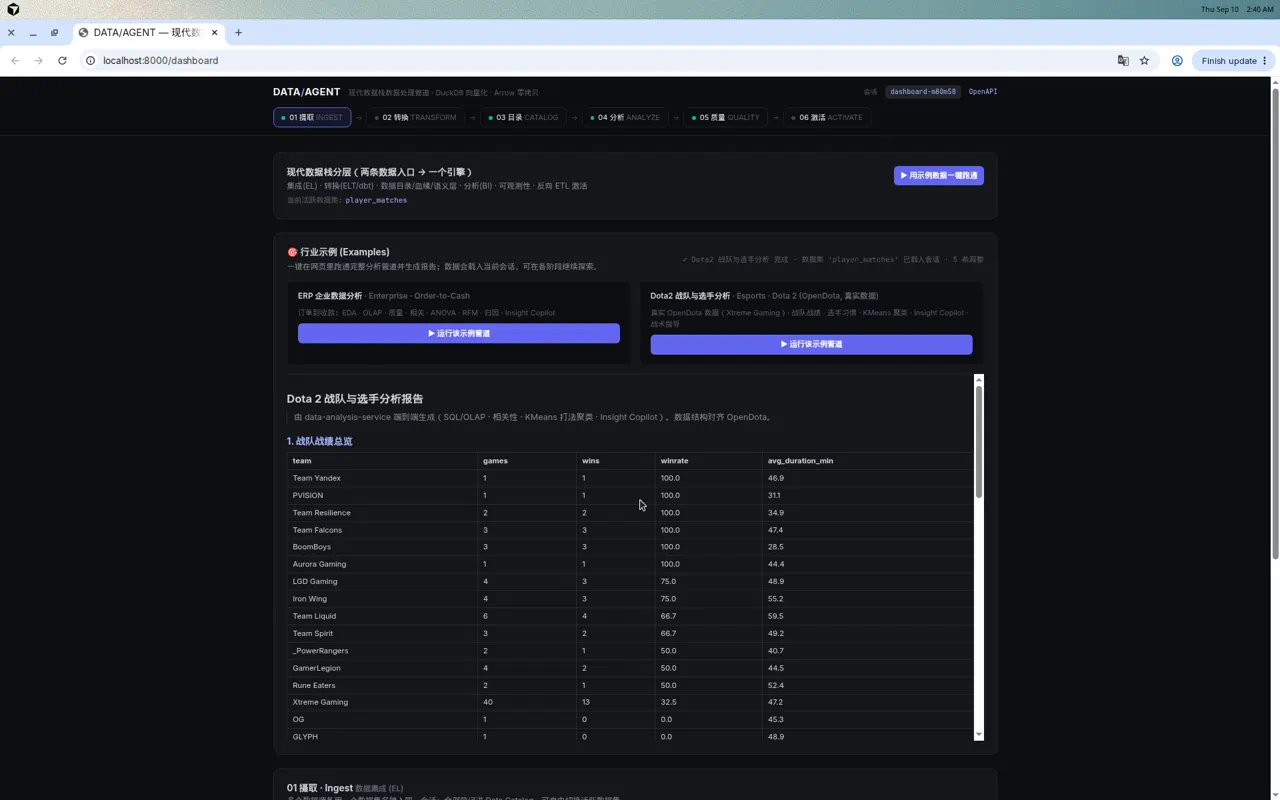
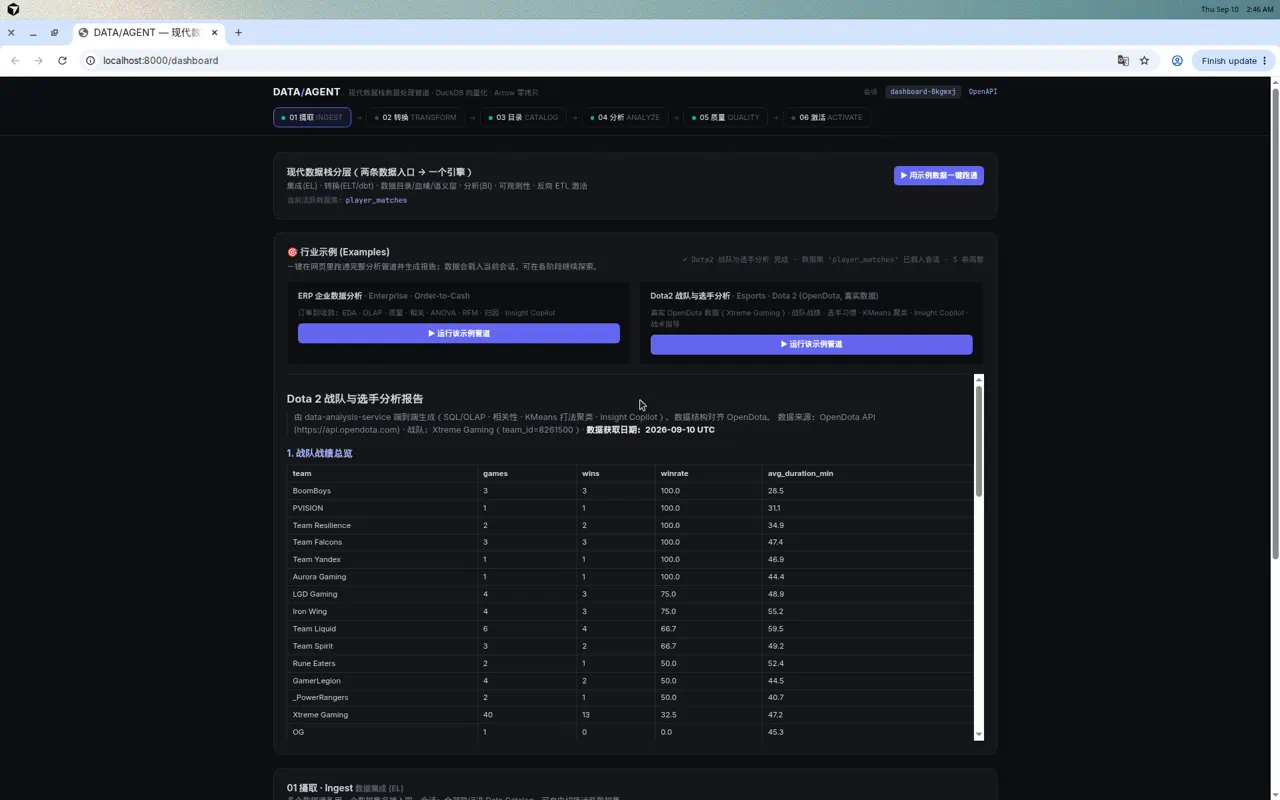
feat(dota2): record & display data acquisition date
- fetch_opendota.py writes real_data/_meta.json with fetched_at (acquisition date),
  source, team, and counts.
- Report header now cites the data source + '数据获取日期' (from _meta.json); the
  web result includes data_note. CLI and web both pass it through.
- README homepage showcase + Dota2 README state the fetch date (2026-09-10 UTC).
- Refresh the homepage screenshot to show the acquisition-date line.
- Test asserts the report cites '数据获取日期'.

Changed region(s): [[0.2188, 0.5312, 0.5625, 0.9375], [0.5938, 0.5625, 0.6562, 0.9375], [0.5938, 0.5, 0.6875, 0.5312]]

diff --git a/app/examples/dota2.py b/app/examples/dota2.py
@@ -109,7 +109,7 @@ def register_frames(con, frames):
         con.unregister(f"_src_{name}")
 
 
-def analyze(session_id: str, con) -> Dict[str, Any]:
+def analyze(session_id: str, con, data_note: str = None) -> Dict[str, Any]:
     def rows(sql):
         return run_duckdb_sql(session_id, sql, limit=200)["data"]
 
@@ -136,11 +136,30 @@ def analyze(session_id: str, con) -> Dict[str, Any]:
 
     med = sorted(t["avg_duration_min"] for t in team_stats)[len(team_stats) // 2]
     guidance = _tactics(team_stats, player_stats, hero_habits, med)
-    report = _report(team_stats, player_stats, hero_habits, corr, clustering, insights, guidance, med)
+    report = _report(team_stats, player_stats, hero_habits, corr, clustering, insights, guidance, med, data_note)
     return {"example_id": EXAMPLE_ID, "name": NAME, "domain": DOMAIN,
             "session_id": session_id, "dataset_name": "player_matches",
             "teams": len(team_stats), "players": len(player_stats),
-            "insights": insights, "report_markdown": report}
+            "data_note": data_note, "insights": insights, "report_markdown": report}
+
+
+def _read_meta(data_dir: str):
+    import json
+    path = os.path.join(data_dir, "_meta.json")
+    if not os.path.exists(path):
+        return None
+    try:
+        with open(path, encoding="utf-8") as f:
+            return json.load(f)
+    except (ValueError, OSError):
+        return None
+
+
+def data_note_from_meta(meta) -> str:
+    if meta:
+        return (f"数据来源：{meta.get('source', 'OpenDota API')} · 战队：{meta.get('team', 'Xtreme Gaming')}"
+                f"（team_id={meta.get('team_id')}）· **数据获取日期：{meta.get('fetched_at', '未知')}**")
+    return "数据来源：合成样本（离线后备，非真实数据）"
 
 
 def _load_real_tables(con) -> bool:
@@ -161,9 +180,12 @@ def _load_real_tables(con) -> bool:
 def run_in_memory(session_id: str = None, seed: int = 7) -> Dict[str, Any]:
     sess = SessionManager().get_or_create_session(session_id)
     con = sess.get_duckdb_conn()
-    if not _load_real_tables(con):  # offline fallback only
+    if _load_real_tables(con):
+        note = data_note_from_meta(_read_meta(REAL_DATA_DIR))
+    else:  # offline fallback only
         register_frames(con, generate_frames(seed))
-    return analyze(sess.session_id, con)
+        note = data_note_from_meta(None)
+    return analyze(sess.session_id, con, data_note=note)
 
 
 def _top_heroes(hero_habits, team, n=2):
@@ -202,9 +224,12 @@ def _table(rows, cols):
     return out
 
 
-def _report(team_stats, player_stats, hero_habits, corr, clustering, insights, guidance, med) -> str:
+def _report(team_stats, player_stats, hero_habits, corr, clustering, insights, guidance, med, data_note=None) -> str:
     L = ["# Dota 2 战队与选手分析报告\n",
-         "> 由 data-analysis-service 端到端生成（SQL/OLAP · 相关性 · KMeans 打法聚类 · Insight Copilot）。数据结构对齐 OpenDota。\n"]
+         "> 由 data-analysis-service 端到端生成（SQL/OLAP · 相关性 · KMeans 打法聚类 · Insight Copilot）。数据结构对齐 OpenDota。"]
+    if data_note:
+        L.append(f"> {data_note}")
+    L.append("")
     L.append("## 1. 战队战绩总览")
     L += _table(team_stats, ["team", "games", "wins", "winrate", "avg_duration_min"])
     L.append(f"\n- 联赛对局时长中位数：**{med} min**（节奏型/发育型分界）\n")

diff --git a/examples/dota2-analysis/fetch_opendota.py b/examples/dota2-analysis/fetch_opendota.py
@@ -96,8 +96,21 @@ def fetch(team_id: int, limit: int, out_dir: str, sleep: float = 1.2):
     _write(out_dir, "matches.csv", matches)
     _write(out_dir, "player_matches.csv", pms)
     _write(out_dir, "teams.csv", [{"team_id": k, "name": v} for k, v in seen_teams.items()])
+
+    # Record the acquisition metadata (crucially, the fetch date) so the report and
+    # README can cite exactly when this real snapshot was pulled from OpenDota.
+    import json
+    meta = {
+        "fetched_at": datetime.now(timezone.utc).strftime("%Y-%m-%d %H:%M UTC"),
+        "source": "OpenDota API (https://api.opendota.com)",
+        "team": team_name, "team_id": team_id,
+        "matches": len(matches), "player_rows": len(pms), "teams": len(seen_teams),
+    }
+    with open(os.path.join(out_dir, "_meta.json"), "w", encoding="utf-8") as f:
+        json.dump(meta, f, ensure_ascii=False, indent=2)
     print(f"Wrote {len(matches)} matches, {len(pms)} player rows, {len(seen_teams)} teams -> {out_dir}")
-    return {"matches": len(matches), "player_rows": len(pms), "teams": len(seen_teams)}
+    print(f"Fetched at: {meta['fetched_at']}")
+    return meta
 
 
 def _write(out_dir, name, rows):

diff --git a/examples/dota2-analysis/analyze_dota2.py b/examples/dota2-analysis/analyze_dota2.py
@@ -18,7 +18,7 @@ if _REPO_ROOT not in sys.path:
     sys.path.insert(0, _REPO_ROOT)
 
 from app.cluster.session_manager import SessionManager
-from app.examples.dota2 import analyze
+from app.examples.dota2 import analyze, data_note_from_meta, _read_meta
 
 
 def run_dota2_analysis(data_dir: str, out_path: str, session_id: str = "dota2_demo") -> dict:
@@ -38,7 +38,8 @@ def run_dota2_analysis(data_dir: str, out_path: str, session_id: str = "dota2_de
             continue  # real OpenDota export omits players.csv; analyze needs only matches + player_matches
         path = raw.replace("'", "''")
         con.execute(f"CREATE OR REPLACE TABLE {tbl} AS SELECT * FROM read_csv_auto('{path}', header=true)")
-    res = analyze(sess.session_id, con)
+    note = data_note_from_meta(_read_meta(data_dir))
+    res = analyze(sess.session_id, con, data_note=note)
 
     os.makedirs(os.path.dirname(os.path.abspath(out_path)), exist_ok=True)
     with open(out_path, "w", encoding="utf-8") as f:

diff --git a/tests/test_examples_web.py b/tests/test_examples_web.py
@@ -30,6 +30,8 @@ def test_run_dota2_example_in_memory():
     r = examples.run_example("dota2", session_id="dota2_web_test")
     assert r["teams"] >= 5 and r["players"] >= 20
     assert "Xtreme Gaming" in r["report_markdown"]  # real XG data
+    assert "数据获取日期" in r["report_markdown"]  # acquisition date is cited
+    assert r.get("data_note")
     assert "战术指导" in r["report_markdown"]
     assert "ban" in r["report_markdown"].lower()
 

diff --git a/examples/dota2-analysis/report.md b/examples/dota2-analysis/report.md
@@ -1,27 +1,28 @@
 # Dota 2 战队与选手分析报告
 
 > 由 data-analysis-service 端到端生成（SQL/OLAP · 相关性 · KMeans 打法聚类 · Insight Copilot）。数据结构对齐 OpenDota。
+> 数据来源：OpenDota API (https://api.opendota.com) · 战队：Xtreme Gaming（team_id=8261500）· **数据获取日期：2026-09-10 UTC**
 
 ## 1. 战队战绩总览
 | team | games | wins | winrate | avg_duration_min |
 |---|---|---|---|---|
-| BoomBoys | 3 | 3 | 100.0 | 28.5 |
-| Team Yandex | 1 | 1 | 100.0 | 46.9 |
-| PVISION | 1 | 1 | 100.0 | 31.1 |
-| Aurora Gaming | 1 | 1 | 100.0 | 44.4 |
 | Team Resilience | 2 | 2 | 100.0 | 34.9 |
 | Team Falcons | 3 | 3 | 100.0 | 47.4 |
-| Iron Wing | 4 | 3 | 75.0 | 55.2 |
+| Team Yandex | 1 | 1 | 100.0 | 46.9 |
+| BoomBoys | 3 | 3 | 100.0 | 28.5 |
+| PVISION | 1 | 1 | 100.0 | 31.1 |
+| Aurora Gaming | 1 | 1 | 100.0 | 44.4 |
 | LGD Gaming | 4 | 3 | 75.0 | 48.9 |
+| Iron Wing | 4 | 3 | 75.0 | 55.2 |
 | Team Liquid | 6 | 4 | 66.7 | 59.5 |
 | Team Spirit | 3 | 2 | 66.7 | 49.2 |
-| Rune Eaters | 2 | 1 | 50.0 | 52.4 |
-| GamerLegion | 4 | 2 | 50.0 | 44.5 |
 | _PowerRangers | 2 | 1 | 50.0 | 40.7 |
+| GamerLegion | 4 | 2 | 50.0 | 44.5 |
+| Rune Eaters | 2 | 1 | 50.0 | 52.4 |
 | Xtreme Gaming | 40 | 13 | 32.5 | 47.2 |
-| GLYPH | 1 | 0 | 0.0 | 48.9 |
 | HULIGANI | 2 | 0 | 0.0 | 43.6 |
 | OG | 1 | 0 | 0.0 | 45.3 |
+| GLYPH | 1 | 0 | 0.0 | 48.9 |
 
 - 联赛对局时长中位数：**46.9 min**（节奏型/发育型分界）
 
@@ -42,12 +43,12 @@
 | m1CKe | Team Liquid | Carry | 6 | 5.1 | 774.0 | 960.0 | 692.0 | 4 | 66.7 |
 
 ## 3. 战队招牌英雄（习惯）
-- **BoomBoys**：Winter Wyvern, Kez, Earth Spirit
-- **Team Yandex**：Lich, Windranger, Slardar
-- **PVISION**：Slardar, Io, Juggernaut
-- **Aurora Gaming**：Hoodwink, Clockwerk, Ember Spirit
-- **Team Resilience**：Mirana, Necrophos, Doom
-- **Team Falcons**：Ember Spirit, Clockwerk, Windranger
+- **Team Resilience**：Mirana, Invoker, Doom
+- **Team Falcons**：Clockwerk, Ember Spirit, Windranger
+- **Team Yandex**：Invoker, Hoodwink, Lich
+- **BoomBoys**：Winter Wyvern, Largo, Ringmaster
+- **PVISION**：Treant Protector, Slardar, Viper
+- **Aurora Gaming**：Axe, Nature's Prophet, Ember Spirit
 
 ## 4. 关键相关性（表现 ↔ 胜负）
 - **gpm ↔ xpm**：r=0.8858（Very Strong）
@@ -67,11 +68,11 @@
 - **建议**：优先关注「gpm 与 xpm Very Strong 相关 (r=0.8858)」（严重度 0.886），建议用 driver_attribution_analysis 对相关指标做因子级归因。
 
 ## 7. 战术指导 (Tactical Guidance)
-- **BoomBoys**（胜率 100.0% · 均时长 28.5min）：早期节奏型（平均时长偏短）：建议前期抱团压制、封野入侵、抢符抢盾，避免被拖入后期。 优先 ban 招牌英雄：Winter Wyvern, Kez。
-- **Team Yandex**（胜率 100.0% · 均时长 46.9min）：后期发育型（平均时长偏长）：建议速推分带、压制打钱节奏、逼其提前团战。 优先 ban 招牌英雄：Lich, Windranger。
-- **PVISION**（胜率 100.0% · 均时长 31.1min）：早期节奏型（平均时长偏短）：建议前期抱团压制、封野入侵、抢符抢盾，避免被拖入后期。 优先 ban 招牌英雄：Slardar, Io。
-- **Aurora Gaming**（胜率 100.0% · 均时长 44.4min）：早期节奏型（平均时长偏短）：建议前期抱团压制、封野入侵、抢符抢盾，避免被拖入后期。 优先 ban 招牌英雄：Hoodwink, Clockwerk。
+- **Team Resilience**（胜率 100.0% · 均时长 34.9min）：早期节奏型（平均时长偏短）：建议前期抱团压制、封野入侵、抢符抢盾，避免被拖入后期。 优先 ban 招牌英雄：Mirana, Invoker。
+- **Team Falcons**（胜率 100.0% · 均时长 47.4min）：后期发育型（平均时长偏长）：建议速推分带、压制打钱节奏、逼其提前团战。 优先 ban 招牌英雄：Clockwerk, Ember Spirit。
+- **Team Yandex**（胜率 100.0% · 均时长 46.9min）：后期发育型（平均时长偏长）：建议速推分带、压制打钱节奏、逼其提前团战。 优先 ban 招牌英雄：Invoker, Hoodwink。
+- **BoomBoys**（胜率 100.0% · 均时长 28.5min）：早期节奏型（平均时长偏短）：建议前期抱团压制、封野入侵、抢符抢盾，避免被拖入后期。 优先 ban 招牌英雄：Winter Wyvern, Largo。
 - **核心威胁（经济）**：优先 gank/切入 → Nightfall(Aurora Gaming/Carry, GPM 982.0)；YSR-04E(Team Resilience/Carry, GPM 833.0)；Satanic(PVISION/Carry, GPM 823.0)。
 - **核心威胁（KDA）**：Nightfall(KDA 32.0)；Mikoto(KDA 28.0)；niu(KDA 23.5)。
-- **可预测的窄英雄池选手**（针对性 ban）：fy（池 1）；zzq（池 1）；planet（池 1）；ssnovv1（池 2）；Cr1t-（池 2）。
+- **可预测的窄英雄池选手**（针对性 ban）：Echozz（池 2）；planet（池 1）；Mirage`雨（池 2）；RESPECT（池 1）；Bignum（池 2）。
 

diff --git a/README.md b/README.md
@@ -10,6 +10,8 @@
 
 内置**行业示例**可在治理大盘里一键跑通完整分析管道并生成报告（`examples/` 亦提供 CLI 版本）。下图为 **Dota 2 战队与选手分析**，数据来自 **OpenDota API 的真实职业比赛**（**Xtreme Gaming / XG** 及其对手，抓取脚本见 `examples/dota2-analysis/fetch_opendota.py`）：战队战绩榜、选手经验与习惯、KMeans 打法聚类、Insight Copilot 自动洞察，以及规则化**战术指导**。
 
+> 📅 **数据获取日期：2026-09-10 (UTC)**，来源 OpenDota API（获取元数据见 `examples/dota2-analysis/real_data/_meta.json`）。
+
 ![Dota 2 战队与选手分析示例](docs/assets/dota2_analysis_showcase.png)
 
 > 另有 **ERP 企业数据分析**示例（订单到收款：EDA/OLAP/质量/相关/ANOVA/RFM/归因/Insight Copilot）。打开 `/dashboard` 顶部「🎯 行业示例」卡片即可一键运行。

diff --git a/examples/dota2-analysis/README.md b/examples/dota2-analysis/README.md
@@ -12,6 +12,8 @@ python analyze_dota2.py             # 优先用 real_data 分析 → report.md
 
 仓库已内置一份抓好的真实数据（`real_data/`，来自 OpenDota，含 XG 及其对手 Team Liquid/Team Spirit/LGD 等真实职业比赛），`analyze_dota2.py` 会优先使用它；网页看板的「行业示例」也直接跑这份真实数据。
 
+**数据获取日期**记录在 `real_data/_meta.json`（`fetched_at` 字段），并会打印在报告头部（当前快照：**2026-09-10 UTC**）。每次 `fetch_opendota.py` 重抓都会刷新该日期。
+
 离线无网络时的后备（合成样本）：
 
 ```bash
